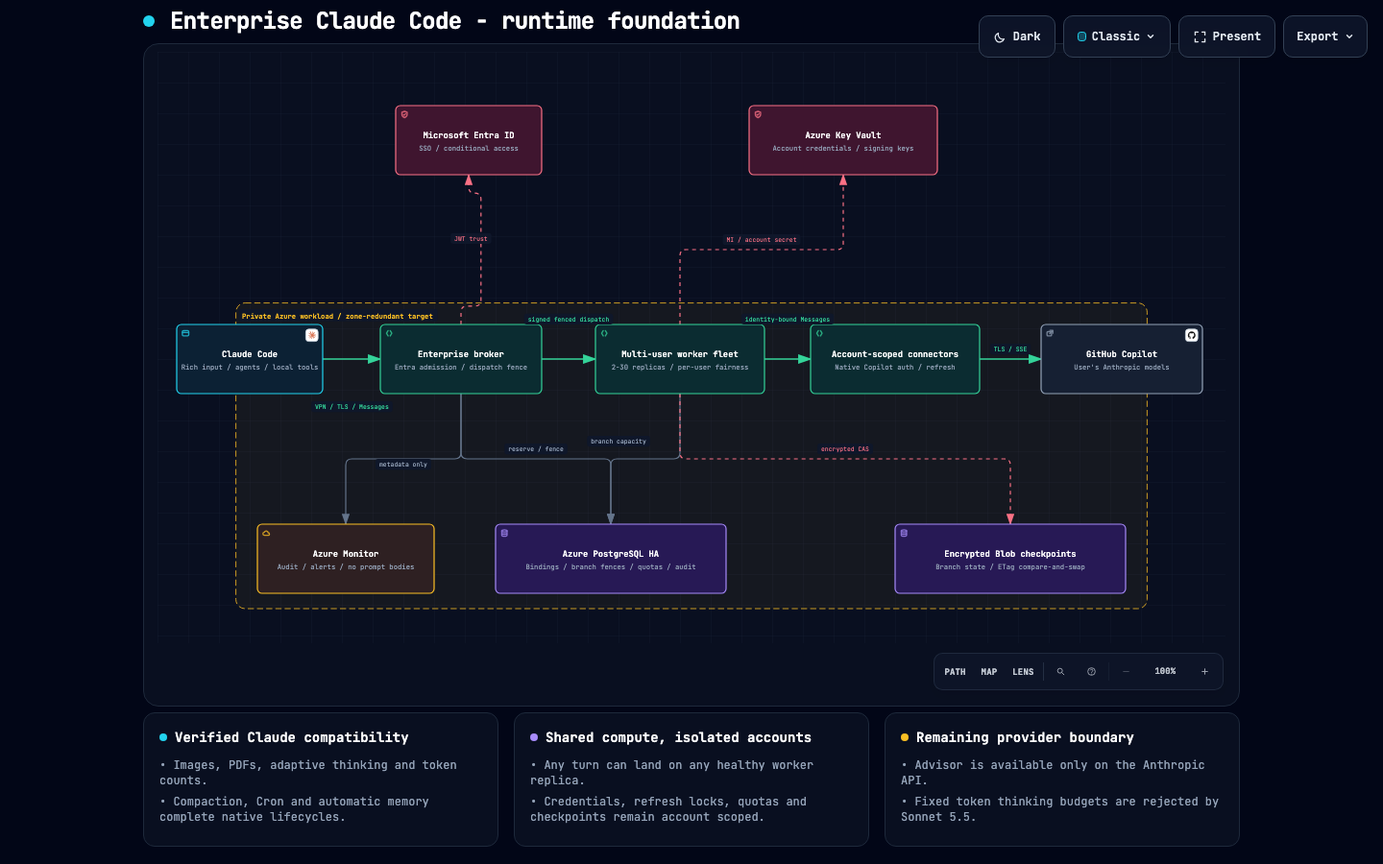
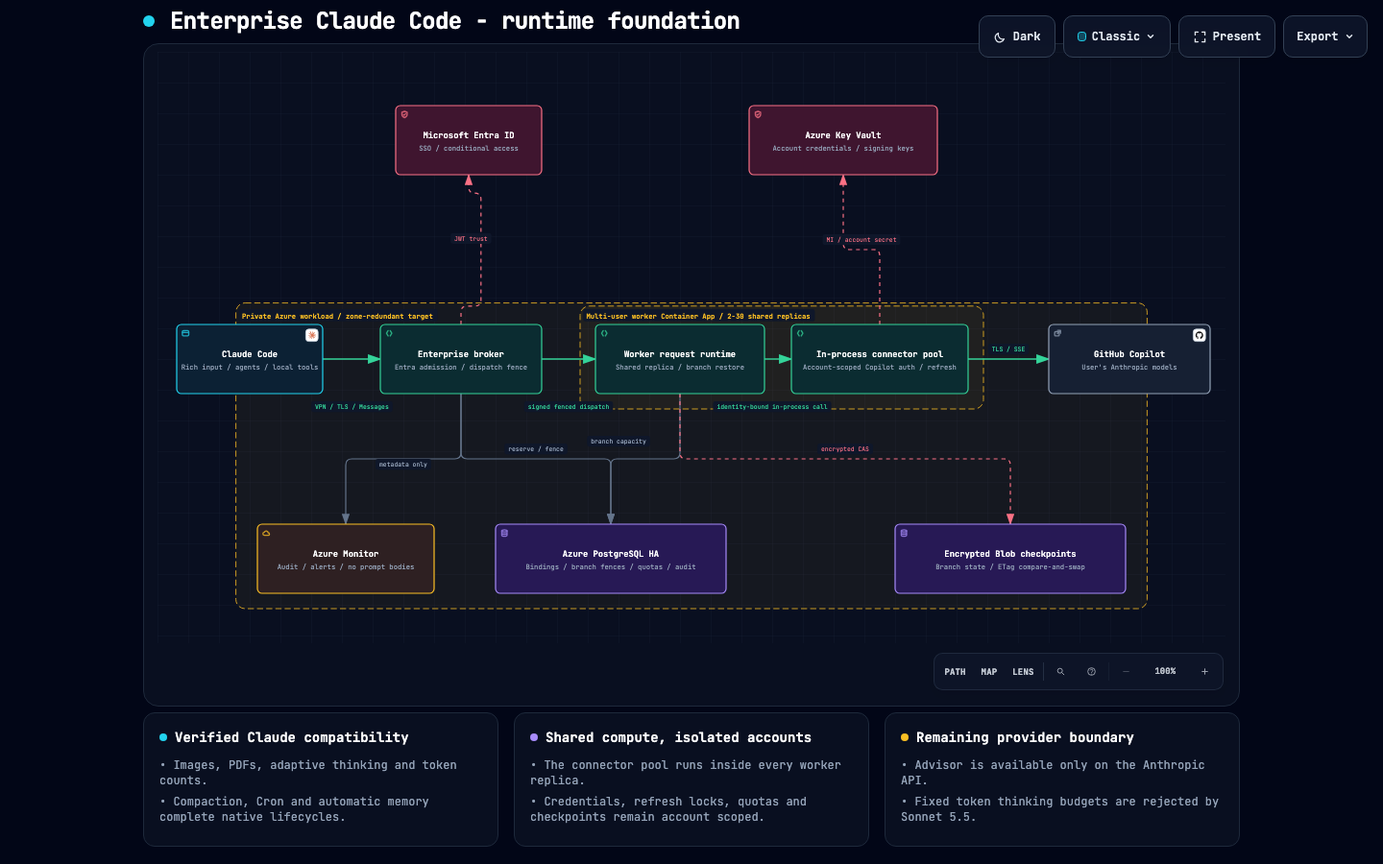
Show connectors inside worker container
Copilot-Session: e79bb5fd-8e65-41e4-a1c2-14556f0cf8d0

diff --git a/docs/diagrams/ccgc-enterprise-runtime.html b/docs/diagrams/ccgc-enterprise-runtime.html
@@ -5030,15 +5030,17 @@
         <rect width="100%" height="100%" fill="url(#grid)" />
 
         <!-- Boundaries (behind everything) -->
-        <rect data-graph-role="structural-frame" data-composition-frame-kind="region" data-composition-frame-id="0" data-composition-frame-label="Private Azure workload / zone-redundant target" x="102" y="327" width="1186" height="398" rx="12" class="c-region" stroke-width="1"/>
+        <rect data-graph-role="structural-frame" data-composition-frame-kind="region" data-composition-frame-id="0" data-composition-frame-label="Multi-user worker Container App / 2-30 shared replicas" x="550" y="331" width="525" height="134" rx="12" class="c-region" stroke-width="1"/>
+
+        <rect data-graph-role="structural-frame" data-composition-frame-kind="region" data-composition-frame-id="1" data-composition-frame-label="Private Azure workload / zone-redundant target" x="102" y="327" width="1186" height="398" rx="12" class="c-region" stroke-width="1"/>
 
         <!-- Connection paths (before components for correct z-order) -->
         <path data-edge-from="managed-client" data-edge-to="principal-seat-broker" data-edge-label="VPN / TLS / Messages" data-edge-key="0" data-edge-id="private-client-access" data-composition-points="215,400;290,400" d="M 215 400 L 290 400" class="a-emphasis" stroke-width="1.8" marker-end="url(#arrowhead-emphasis)"/>
         <path data-edge-from="principal-seat-broker" data-edge-to="multiuser-worker-fleet" data-edge-label="signed fenced dispatch" data-edge-key="1" data-edge-id="user-bound-dispatch" data-composition-points="500,400;570,400" d="M 500 400 L 570 400" class="a-emphasis" stroke-width="1.8" marker-end="url(#arrowhead-emphasis)"/>
-        <path data-edge-from="multiuser-worker-fleet" data-edge-to="account-scoped-connectors" data-edge-label="identity-bound Messages" data-edge-key="2" data-edge-id="reviewed-message-route" data-composition-points="790,400;850,400" d="M 790 400 L 850 400" class="a-emphasis" stroke-width="1.8" marker-end="url(#arrowhead-emphasis)"/>
-        <path data-edge-from="account-scoped-connectors" data-edge-to="individual-copilot-seat" data-edge-label="TLS / SSE" data-edge-key="3" data-edge-id="copilot-native-stream" data-composition-points="1070,400;1150,400" d="M 1070 400 L 1150 400" class="a-emphasis" stroke-width="1.8" marker-end="url(#arrowhead-emphasis)"/>
+        <path data-edge-from="multiuser-worker-fleet" data-edge-to="account-scoped-connectors" data-edge-label="identity-bound in-process call" data-edge-key="2" data-edge-id="reviewed-message-route" data-composition-points="790,400;825,400" d="M 790 400 L 825 400" class="a-emphasis" stroke-width="1.8" marker-end="url(#arrowhead-emphasis)"/>
+        <path data-edge-from="account-scoped-connectors" data-edge-to="individual-copilot-seat" data-edge-label="TLS / SSE" data-edge-key="3" data-edge-id="copilot-native-stream" data-composition-points="1055,400;1160,400" d="M 1055 400 L 1160 400" class="a-emphasis" stroke-width="1.8" marker-end="url(#arrowhead-emphasis)"/>
         <path data-edge-from="principal-seat-broker" data-edge-to="enterprise-identity" data-edge-label="JWT trust" data-edge-key="4" data-edge-id="trusted-token-validation" data-composition-points="395,355;395,331;421,331;421,184;405,184;405,160" d="M 395 355 L 395 339 Q 395 331 403 331 L 413 331 Q 421 331 421 323 L 421 192 Q 421 184 413 184 L 413 184 Q 405 184 405 176 L 405 160" class="a-security" stroke-width="1.5" marker-end="url(#arrowhead-security)"/>
-        <path data-edge-from="multiuser-worker-fleet" data-edge-to="private-credential-store" data-edge-label="MI / account secret" data-edge-key="5" data-edge-id="worker-secret-access" data-composition-points="680,355;680,257.5;892.5,257.5;892.5,160" d="M 680 355 L 680 265.5 Q 680 257.5 688 257.5 L 884.5 257.5 Q 892.5 257.5 892.5 249.5 L 892.5 160" class="a-security" stroke-width="1.5" marker-end="url(#arrowhead-security)"/>
+        <path data-edge-from="account-scoped-connectors" data-edge-to="private-credential-store" data-edge-label="MI / account secret" data-edge-key="5" data-edge-id="worker-secret-access" data-composition-points="940,355;940,257.5;892.5,257.5;892.5,160" d="M 940 355 L 940 265.5 Q 940 257.5 932 257.5 L 900.5 257.5 Q 892.5 257.5 892.5 249.5 L 892.5 160" class="a-security" stroke-width="1.5" marker-end="url(#arrowhead-security)"/>
         <path data-edge-from="principal-seat-broker" data-edge-to="durable-admission-ledger" data-edge-label="reserve / fence" data-edge-key="6" data-edge-id="atomic-admission-reservation" data-composition-points="395,445;395,530;590,530;590,615" d="M 395 445 L 395 522 Q 395 530 403 530 L 582 530 Q 590 530 590 538 L 590 615" class="a-default" stroke-width="1.5" marker-end="url(#arrowhead)"/>
         <path data-edge-from="multiuser-worker-fleet" data-edge-to="durable-admission-ledger" data-edge-label="branch capacity" data-edge-key="7" data-edge-id="durable-attempt-outcome" data-composition-points="680,445;680,530;590,530;590,615" d="M 680 445 L 680 522 Q 680 530 672 530 L 598 530 Q 590 530 590 538 L 590 615" class="a-default" stroke-width="1.5" marker-end="url(#arrowhead)"/>
         <path data-edge-from="multiuser-worker-fleet" data-edge-to="encrypted-checkpoints" data-edge-label="encrypted CAS" data-edge-key="8" data-edge-id="checkpoint-state" data-composition-points="680,445;680,530;1110,530;1110,615" d="M 680 445 L 680 522 Q 680 530 688 530 L 1102 530 Q 1110 530 1110 538 L 1110 615" class="a-security" stroke-width="1.5" marker-end="url(#arrowhead-security)"/>
@@ -5087,43 +5089,43 @@
         <text data-detail="context" x="395" y="414" class="t-muted" font-size="9" text-anchor="middle">Entra admission / dispatch fence</text>
         </g>
 
-        <g id="node-multiuser-worker-fleet" data-node-id="multiuser-worker-fleet" data-node-label="Multi-user worker fleet" tabindex="0" role="button" aria-label="Focus Multi-user worker fleet, 2-30 replicas / per-user fairness, Private Azure workload / zone-redundant target" aria-pressed="false" data-node-kind="backend" data-node-sublabel="2-30 replicas / per-user fairness" data-node-context="Private Azure workload / zone-redundant target">
-          <title>Multi-user worker fleet · 2-30 replicas / per-user fairness · Private Azure workload / zone-redundant target</title>
+        <g id="node-multiuser-worker-fleet" data-node-id="multiuser-worker-fleet" data-node-label="Worker request runtime" tabindex="0" role="button" aria-label="Focus Worker request runtime, Shared replica / branch restore, Private Azure workload / zone-redundant target › Multi-user worker Container App / 2-30 shared replicas" aria-pressed="false" data-node-kind="backend" data-node-sublabel="Shared replica / branch restore" data-node-context="Private Azure workload / zone-redundant target › Multi-user worker Container App / 2-30 shared replicas">
+          <title>Worker request runtime · Shared replica / branch restore · Private Azure workload / zone-redundant target › Multi-user worker Container App / 2-30 shared replicas</title>
           <rect x="570" y="355" width="220" height="90" rx="6" class="c-mask"/>
           <rect x="570" y="355" width="220" height="90" rx="6" class="c-backend" stroke-width="1.5"/>
           <g aria-hidden="true" data-semantic-sigil="backend" class="semantic-sigil s-backend" transform="translate(576 361) scale(0.6875)">
             <path d="M6 3 3 8l3 5M10 3l3 5-3 5"/>
           </g>
-          <text data-node-label="" data-detail-anchor="" x="680" y="398" class="t-primary" font-size="11" font-weight="600" text-anchor="middle">Multi-user worker fleet</text>
-        <text data-detail="context" x="680" y="414" class="t-muted" font-size="9" text-anchor="middle">2-30 replicas / per-user fairness</text>
+          <text data-node-label="" data-detail-anchor="" x="680" y="398" class="t-primary" font-size="11" font-weight="600" text-anchor="middle">Worker request runtime</text>
+        <text data-detail="context" x="680" y="414" class="t-muted" font-size="9" text-anchor="middle">Shared replica / branch restore</text>
         </g>
 
-        <g id="node-account-scoped-connectors" data-node-id="account-scoped-connectors" data-node-label="Account-scoped connectors" tabindex="0" role="button" aria-label="Focus Account-scoped connectors, Native Copilot auth / refresh, Private Azure workload / zone-redundant target" aria-pressed="false" data-node-kind="backend" data-node-sublabel="Native Copilot auth / refresh" data-node-context="Private Azure workload / zone-redundant target">
-          <title>Account-scoped connectors · Native Copilot auth / refresh · Private Azure workload / zone-redundant target</title>
-          <rect x="850" y="355" width="220" height="90" rx="6" class="c-mask"/>
-          <rect x="850" y="355" width="220" height="90" rx="6" class="c-backend" stroke-width="1.5"/>
-          <g aria-hidden="true" data-semantic-sigil="backend" class="semantic-sigil s-backend" transform="translate(856 361) scale(0.6875)">
+        <g id="node-account-scoped-connectors" data-node-id="account-scoped-connectors" data-node-label="In-process connector pool" tabindex="0" role="button" aria-label="Focus In-process connector pool, Account-scoped Copilot auth / refresh, Private Azure workload / zone-redundant target › Multi-user worker Container App / 2-30 shared replicas" aria-pressed="false" data-node-kind="backend" data-node-sublabel="Account-scoped Copilot auth / refresh" data-node-context="Private Azure workload / zone-redundant target › Multi-user worker Container App / 2-30 shared replicas">
+          <title>In-process connector pool · Account-scoped Copilot auth / refresh · Private Azure workload / zone-redundant target › Multi-user worker Container App / 2-30 shared replicas</title>
+          <rect x="825" y="355" width="230" height="90" rx="6" class="c-mask"/>
+          <rect x="825" y="355" width="230" height="90" rx="6" class="c-backend" stroke-width="1.5"/>
+          <g aria-hidden="true" data-semantic-sigil="backend" class="semantic-sigil s-backend" transform="translate(831 361) scale(0.6875)">
             <path d="M6 3 3 8l3 5M10 3l3 5-3 5"/>
           </g>
-          <text data-node-label="" data-detail-anchor="" x="960" y="398" class="t-primary" font-size="11" font-weight="600" text-anchor="middle">Account-scoped connectors</text>
-        <text data-detail="context" x="960" y="414" class="t-muted" font-size="9" text-anchor="middle">Native Copilot auth / refresh</text>
+          <text data-node-label="" data-detail-anchor="" x="940" y="398" class="t-primary" font-size="11" font-weight="600" text-anchor="middle">In-process connector pool</text>
+        <text data-detail="context" x="940" y="414" class="t-muted" font-size="9" text-anchor="middle">Account-scoped Copilot auth / refresh</text>
         </g>
 
         <g id="node-individual-copilot-seat" data-node-id="individual-copilot-seat" data-node-label="GitHub Copilot" tabindex="0" role="button" aria-label="Focus GitHub Copilot, User&#39;s Anthropic models, Architecture component, GitHub" aria-pressed="false" data-node-kind="external" data-node-sublabel="User&#39;s Anthropic models" data-node-context="Architecture component" data-node-brand="GitHub" data-node-brand-id="github" data-node-brand-status="preset" data-node-brand-source="https://github.com/logos">
           <title>GitHub Copilot · User&#39;s Anthropic models · Architecture component · GitHub</title>
-          <rect x="1150" y="355" width="210" height="90" rx="6" class="c-mask"/>
-          <rect x="1150" y="355" width="210" height="90" rx="6" class="c-external" stroke-width="1.5"/>
-          <g aria-hidden="true" data-semantic-sigil="external" class="semantic-sigil s-external" transform="translate(1156 361) scale(0.6875)">
+          <rect x="1160" y="355" width="210" height="90" rx="6" class="c-mask"/>
+          <rect x="1160" y="355" width="210" height="90" rx="6" class="c-external" stroke-width="1.5"/>
+          <g aria-hidden="true" data-semantic-sigil="external" class="semantic-sigil s-external" transform="translate(1166 361) scale(0.6875)">
             <rect x="2.5" y="5" width="8.5" height="8" rx="1.5"/>
             <path d="M8 2.5h5.5V8M13.5 2.5 7.5 8.5"/>
           </g>
-          <g aria-hidden="true" data-brand-mark="github" data-brand-title="GitHub" data-brand-status="preset" data-brand-source="https://github.com/logos" class="brand-mark" transform="translate(1338 361)">
+          <g aria-hidden="true" data-brand-mark="github" data-brand-title="GitHub" data-brand-status="preset" data-brand-source="https://github.com/logos" class="brand-mark" transform="translate(1348 361)">
             <rect width="16" height="16" rx="4" class="brand-mark-badge"/>
             <path d="M12 .297c-6.63 0-12 5.373-12 12 0 5.303 3.438 9.8 8.205 11.385.6.113.82-.258.82-.577 0-.285-.01-1.04-.015-2.04-3.338.724-4.042-1.61-4.042-1.61C4.422 18.07 3.633 17.7 3.633 17.7c-1.087-.744.084-.729.084-.729 1.205.084 1.838 1.236 1.838 1.236 1.07 1.835 2.809 1.305 3.495.998.108-.776.417-1.305.76-1.605-2.665-.3-5.466-1.332-5.466-5.93 0-1.31.465-2.38 1.235-3.22-.135-.303-.54-1.523.105-3.176 0 0 1.005-.322 3.3 1.23.96-.267 1.98-.399 3-.405 1.02.006 2.04.138 3 .405 2.28-1.552 3.285-1.23 3.285-1.23.645 1.653.24 2.873.12 3.176.765.84 1.23 1.91 1.23 3.22 0 4.61-2.805 5.625-5.475 5.92.42.36.81 1.096.81 2.22 0 1.606-.015 2.896-.015 3.286 0 .315.21.69.825.57C20.565 22.092 24 17.592 24 12.297c0-6.627-5.373-12-12-12" transform="translate(3 3) scale(0.4166666666666667)" fill="#181717"/>
             <rect width="16" height="16" rx="4" class="brand-mark-frame"/>
           </g>
-          <text data-node-label="" data-detail-anchor="" x="1255" y="398" class="t-primary" font-size="11" font-weight="600" text-anchor="middle">GitHub Copilot</text>
-        <text data-detail="context" x="1255" y="414" class="t-muted" font-size="9" text-anchor="middle">User&#39;s Anthropic models</text>
+          <text data-node-label="" data-detail-anchor="" x="1265" y="398" class="t-primary" font-size="11" font-weight="600" text-anchor="middle">GitHub Copilot</text>
+        <text data-detail="context" x="1265" y="414" class="t-muted" font-size="9" text-anchor="middle">User&#39;s Anthropic models</text>
         </g>
 
         <g id="node-private-credential-store" data-node-id="private-credential-store" data-node-label="Azure Key Vault" tabindex="0" role="button" aria-label="Focus Azure Key Vault, Account credentials / signing keys, Architecture component" aria-pressed="false" data-node-kind="security" data-node-sublabel="Account credentials / signing keys" data-node-context="Architecture component">
@@ -5179,24 +5181,24 @@
           <text x="253" y="465" class="t-backend" font-size="8" text-anchor="middle">VPN / TLS / Messages</text>
         </g>
         <g data-detail="context" data-edge-from="principal-seat-broker" data-edge-to="multiuser-worker-fleet" data-edge-label="signed fenced dispatch" data-edge-key="1" data-edge-id="user-bound-dispatch">
-          <rect x="477.2" y="341" width="115.6" height="14" rx="3" class="c-mask"/>
-          <text x="535" y="351" class="t-backend" font-size="8" text-anchor="middle">signed fenced dispatch</text>
+          <rect x="477.2" y="455" width="115.6" height="14" rx="3" class="c-mask"/>
+          <text x="535" y="465" class="t-backend" font-size="8" text-anchor="middle">signed fenced dispatch</text>
         </g>
-        <g data-detail="context" data-edge-from="multiuser-worker-fleet" data-edge-to="account-scoped-connectors" data-edge-label="identity-bound Messages" data-edge-key="2" data-edge-id="reviewed-message-route">
-          <rect x="759.8" y="341" width="120.39999999999999" height="14" rx="3" class="c-mask"/>
-          <text x="820" y="351" class="t-backend" font-size="8" text-anchor="middle">identity-bound Messages</text>
+        <g data-detail="context" data-edge-from="multiuser-worker-fleet" data-edge-to="account-scoped-connectors" data-edge-label="identity-bound in-process call" data-edge-key="2" data-edge-id="reviewed-message-route">
+          <rect x="723" y="455" width="154" height="14" rx="3" class="c-mask"/>
+          <text x="800" y="465" class="t-backend" font-size="8" text-anchor="middle">identity-bound in-process call</text>
         </g>
         <g data-detail="context" data-edge-from="account-scoped-connectors" data-edge-to="individual-copilot-seat" data-edge-label="TLS / SSE" data-edge-key="3" data-edge-id="copilot-native-stream">
-          <rect x="1083.4" y="380" width="53.199999999999996" height="14" rx="3" class="c-mask"/>
-          <text x="1110" y="390" class="t-backend" font-size="8" text-anchor="middle">TLS / SSE</text>
+          <rect x="1080.9" y="380" width="53.199999999999996" height="14" rx="3" class="c-mask"/>
+          <text x="1107.5" y="390" class="t-backend" font-size="8" text-anchor="middle">TLS / SSE</text>
         </g>
         <g data-detail="context" data-edge-from="principal-seat-broker" data-edge-to="enterprise-identity" data-edge-label="JWT trust" data-edge-key="4" data-edge-id="trusted-token-validation">
           <rect x="381.4" y="236" width="53.199999999999996" height="14" rx="3" class="c-mask"/>
           <text x="408" y="246" class="t-security" font-size="8" text-anchor="middle">JWT trust</text>
         </g>
-        <g data-detail="context" data-edge-from="multiuser-worker-fleet" data-edge-to="private-credential-store" data-edge-label="MI / account secret" data-edge-key="5" data-edge-id="worker-secret-access">
-          <rect x="735.65" y="237.5" width="101.2" height="14" rx="3" class="c-mask"/>
-          <text x="786.25" y="247.5" class="t-security" font-size="8" text-anchor="middle">MI / account secret</text>
+        <g data-detail="context" data-edge-from="account-scoped-connectors" data-edge-to="private-credential-store" data-edge-label="MI / account secret" data-edge-key="5" data-edge-id="worker-secret-access">
+          <rect x="865.65" y="237.5" width="101.2" height="14" rx="3" class="c-mask"/>
+          <text x="916.25" y="247.5" class="t-security" font-size="8" text-anchor="middle">MI / account secret</text>
         </g>
         <g data-detail="context" data-edge-from="principal-seat-broker" data-edge-to="durable-admission-ledger" data-edge-label="reserve / fence" data-edge-key="6" data-edge-id="atomic-admission-reservation">
           <rect x="451.5" y="510" width="82" height="14" rx="3" class="c-mask"/>
@@ -5216,7 +5218,12 @@
         </g>
 
         <!-- Boundary labels (foreground masks keep routes out of titles) -->
-        <g data-graph-role="structural-frame-label" data-composition-frame-id="0" data-composition-frame-kind="region" data-composition-frame-label="Private Azure workload / zone-redundant target">
+        <g data-graph-role="structural-frame-label" data-composition-frame-id="0" data-composition-frame-kind="region" data-composition-frame-label="Multi-user worker Container App / 2-30 shared replicas">
+          <rect data-graph-role="structural-frame-label-mask" x="554" y="335" width="301.59999999999997" height="16" rx="3" class="c-mask"/>
+          <text data-boundary-label="" x="558" y="348" class="t-cloud" font-size="9" font-weight="600">Multi-user worker Container App / 2-30 shared replicas</text>
+        </g>
+
+        <g data-graph-role="structural-frame-label" data-composition-frame-id="1" data-composition-frame-kind="region" data-composition-frame-label="Private Azure workload / zone-redundant target">
           <rect data-graph-role="structural-frame-label-mask" x="106" y="335" width="258.4" height="16" rx="3" class="c-mask"/>
           <text data-boundary-label="" x="110" y="348" class="t-cloud" font-size="9" font-weight="600">Private Azure workload / zone-redundant target</text>
         </g>
@@ -5426,7 +5433,7 @@
           <h3>Shared compute, isolated accounts</h3>
         </div>
         <ul>
-          <li>&bull; Any turn can land on any healthy worker replica.</li>
+          <li>&bull; The connector pool runs inside every worker replica.</li>
           <li>&bull; Credentials, refresh locks, quotas and checkpoints remain account scoped.</li>
         </ul>
       </div>

diff --git a/docs/diagrams/README.md b/docs/diagrams/README.md
@@ -8,7 +8,7 @@ Bicep/Terraform VM automation remain the single-user alpha documented below.
 
 | Enterprise diagram | Presentation PNG | Interactive HTML | Technical source |
 |---|---|---|---|
-| Runtime architecture | [Multi-user presentation poster](ccgc-enterprise-runtime-multiuser-flare.png) | [Runtime viewer](ccgc-enterprise-runtime.html) | [Architecture JSON](ccgc-enterprise-runtime.architecture.json) |
+| Runtime architecture | [Multi-user presentation poster](ccgc-enterprise-runtime-multiuser-flare-v2.png) | [Runtime viewer](ccgc-enterprise-runtime.html) | [Architecture JSON](ccgc-enterprise-runtime.architecture.json) |
 | Provisioning and rollout | [Provisioning poster](ccgc-enterprise-provisioning.png) | [Workflow viewer](ccgc-enterprise-provisioning.html) | [Workflow JSON](ccgc-enterprise-provisioning.workflow.json) |
 
 The [PRD enterprise target contract](../PRD.md#enterprise-target-revision-017)
@@ -17,14 +17,16 @@ and production gates. These diagrams do not certify enterprise readiness.
 
 ## Enterprise runtime
 
-![Enterprise multi-user runtime architecture](ccgc-enterprise-runtime-multiuser-flare.png)
+![Enterprise multi-user runtime architecture](ccgc-enterprise-runtime-multiuser-flare-v2.png)
 
 The primary request path is **Claude Code -> private enterprise broker ->
-shared multi-user worker fleet -> account-scoped native connector -> GitHub
-Copilot -> Anthropic models**. Native Messages and streamed responses follow
-this route; Claude's Read/Edit/Bash, hooks, and background execution remain
-local. The broker owns admission and branch fencing. Any worker replica can load
-the matching encrypted checkpoint, while each connector owns only one account's
+shared multi-user worker Container App -> in-process account-scoped connector
+pool -> GitHub Copilot -> Anthropic models**. The connector pool is contained
+inside every worker replica; it is not another Container App or independently
+scaled service. Native Messages and streamed responses follow this route;
+Claude's Read/Edit/Bash, hooks, and background execution remain local. The
+broker owns admission and branch fencing. Any worker replica can load the
+matching encrypted checkpoint, while each connector owns only one account's
 Copilot authorization, token cache, refresh lock, transport, and token counting.
 
 The compatibility labels reflect the latest verified implementation: images,
@@ -72,13 +74,14 @@ PaaS modules, per-user services or acceptance gates.
 |---|---|---|
 | Frozen specification/HTML hashes and byte counts | [Delivery receipt](ccgc-enterprise-runtime.delivery.json) | [Delivery receipt](ccgc-enterprise-provisioning.delivery.json) |
 | Desktop light/dark evidence | [Contact sheet](ccgc-enterprise-runtime.visual-check.html) | [Contact sheet](ccgc-enterprise-provisioning.visual-check.html) |
-| Initial image brief | [Archify runtime prompt](ccgc-enterprise-runtime.prompt.txt), [current multi-user Flare prompt](ccgc-enterprise-runtime-multiuser-flare.prompt.txt) | [Provisioning prompt](ccgc-enterprise-provisioning.prompt.txt) |
-| Image generation provenance | [Current multi-user Flare receipt](ccgc-enterprise-runtime-multiuser-flare.receipt.json), [historical Flare receipt](ccgc-enterprise-runtime-flare-v2.receipt.json) | [Selected-image receipt](ccgc-enterprise-provisioning.receipt.json) |
+| Initial image brief | [Archify runtime prompt](ccgc-enterprise-runtime.prompt.txt), [multi-user Flare prompt](ccgc-enterprise-runtime-multiuser-flare.prompt.txt), [nested-connector correction](ccgc-enterprise-runtime-multiuser-flare-v2.prompt.txt) | [Provisioning prompt](ccgc-enterprise-provisioning.prompt.txt) |
+| Image generation provenance | [Current nested-connector Flare receipt](ccgc-enterprise-runtime-multiuser-flare-v2.receipt.json), [initial multi-user Flare receipt](ccgc-enterprise-runtime-multiuser-flare.receipt.json), [historical per-user Flare receipt](ccgc-enterprise-runtime-flare-v2.receipt.json) | [Selected-image receipt](ccgc-enterprise-provisioning.receipt.json) |
 
 The runtime presentation PNG was generated from the validated Archify
 light-theme capture and official Microsoft Entra/Azure icon references. It
-shows the current shared multi-user worker and account-scoped native connector
-design. The validated [technical runtime capture](ccgc-enterprise-runtime.png),
+shows the current shared multi-user worker with its nested in-process,
+account-scoped connector pool. The validated
+[technical runtime capture](ccgc-enterprise-runtime.png),
 reviewed JSON, and interactive HTML remain authoritative when presentation
 artwork and implementation details differ. The earlier
 [per-user/LiteLLM Flare poster](ccgc-enterprise-runtime-flare-v2.png) is retained

diff --git a/README.md b/README.md
@@ -12,16 +12,19 @@ Employee Claude Code
 Enterprise admission broker
         |
         v
-Shared multi-user worker fleet
-        |
-        v
-Account-scoped native connector -> Employee's GitHub Copilot seat -> Anthropic Models
+Multi-user worker Container App (2-30 shared replicas)
+        |-- Worker request runtime
+        `-- In-process account-scoped connector pool
+                    |
+                    v
+        Employee's GitHub Copilot seat -> Anthropic Models
 ```
 
 Each employee has a separate identity binding, Copilot authorization, connector
 context, model catalog, admission, limits, and encrypted conversation
-checkpoints. Worker replicas are shared for scale, but seats, credentials,
-token refresh state, checkpoints, and quotas remain account scoped.
+checkpoints. The connector pool runs inside every shared worker replica; it is
+not a separate Container App. Seats, credentials, token refresh state,
+checkpoints, and quotas remain account scoped.
 
 > [!IMPORTANT]
 > The enterprise foundation is implemented and locally validated, but it is not
@@ -39,9 +42,9 @@ The enterprise path has two required project components:
 | Component | What it is | Why it is required |
 |---|---|---|
 | Enterprise admission broker | Project-developed TypeScript/Node.js service. | Validates Entra identity, resolves the employee binding, issues bounded admissions, reserves attempts, fences dispatches, and records audit metadata. |
-| Shared multi-user worker | Project-developed TypeScript/Node.js service. | Verifies short-lived broker-signed dispatches, selects an account-scoped Copilot connector, enforces per-user fairness, and restores encrypted branch checkpoints on any replica. |
+| Shared multi-user worker | Project-developed TypeScript/Node.js service. | Verifies short-lived broker-signed dispatches, hosts the in-process account-scoped connector pool, enforces per-user fairness, and restores encrypted branch checkpoints on any replica. |
 
-The native connector in `src/copilot.ts` performs GitHub identity validation,
+The in-process native connector in `src/copilot.ts` performs GitHub identity validation,
 Copilot token refresh, model discovery, token counting, and Anthropic Messages
 transport independently for each account context. Unmodified LiteLLM is not used
 because its GitHub Copilot credential directory is process global and therefore
@@ -227,11 +230,12 @@ The foundation must not be described as production-ready until these gates pass.
 
 ## Architecture poster
 
-![Enterprise multi-user architecture](docs/diagrams/ccgc-enterprise-runtime-multiuser-flare.png)
+![Enterprise multi-user architecture](docs/diagrams/ccgc-enterprise-runtime-multiuser-flare-v2.png)
 
-The current poster shows the enterprise broker, horizontally scaled shared
-multi-user worker fleet, account-scoped native connectors, private credential
-store, and encrypted checkpoint store. The reviewed Archify JSON and
+The current poster shows the enterprise broker and a horizontally scaled
+multi-user worker Container App containing the worker runtime and in-process
+account-scoped connector pool, plus the private credential and encrypted
+checkpoint stores. The reviewed Archify JSON and
 interactive HTML remain the authoritative technical architecture; the
 GPT-image poster is its presentation companion. Diagram sources, model
 provenance, and validation receipts are in

diff --git a/docs/ENTERPRISE.md b/docs/ENTERPRISE.md
@@ -10,8 +10,8 @@ LiteLLM connector remain independent and unchanged as rollback evidence.
 | Component | Responsibility |
 |---|---|
 | Enterprise broker | Validates Microsoft Entra identity, resolves the immutable GitHub binding, issues bounded admissions, reserves attempts transactionally, fences each branch dispatch, signs a 60-second worker assertion, and emits audit intent. |
-| Shared multi-user worker fleet | Verifies broker assertions, enforces per-user and global capacity, selects the exact account connector, restores durable branch state, and streams native Messages responses. |
-| Account-scoped native Copilot connector | Validates the effective GitHub login, maintains one OAuth credential, Copilot token cache, endpoint, and refresh lock per binding revision, then sends the exact Anthropic Messages request. |
+| Shared multi-user worker fleet | Runs as one Container App scaled across 2-30 replicas. Each replica verifies broker assertions, enforces per-user and global capacity, hosts the in-process connector pool, restores durable branch state, and streams native Messages responses. |
+| Account-scoped native Copilot connector | An in-process object inside a worker replica, not a separate Container App. It validates the effective GitHub login, maintains one OAuth credential, Copilot token cache, endpoint, and refresh lock per binding revision, then sends the exact Anthropic Messages request. |
 | PostgreSQL | Stores account bindings, admission budgets, active branch reservations, monotonic fences, outcomes, and the audit outbox. |
 | Encrypted Blob checkpoints | Stores pending tool lineage and other branch state encrypted by the worker. Blob ETags reject concurrent or stale writes. |
 
